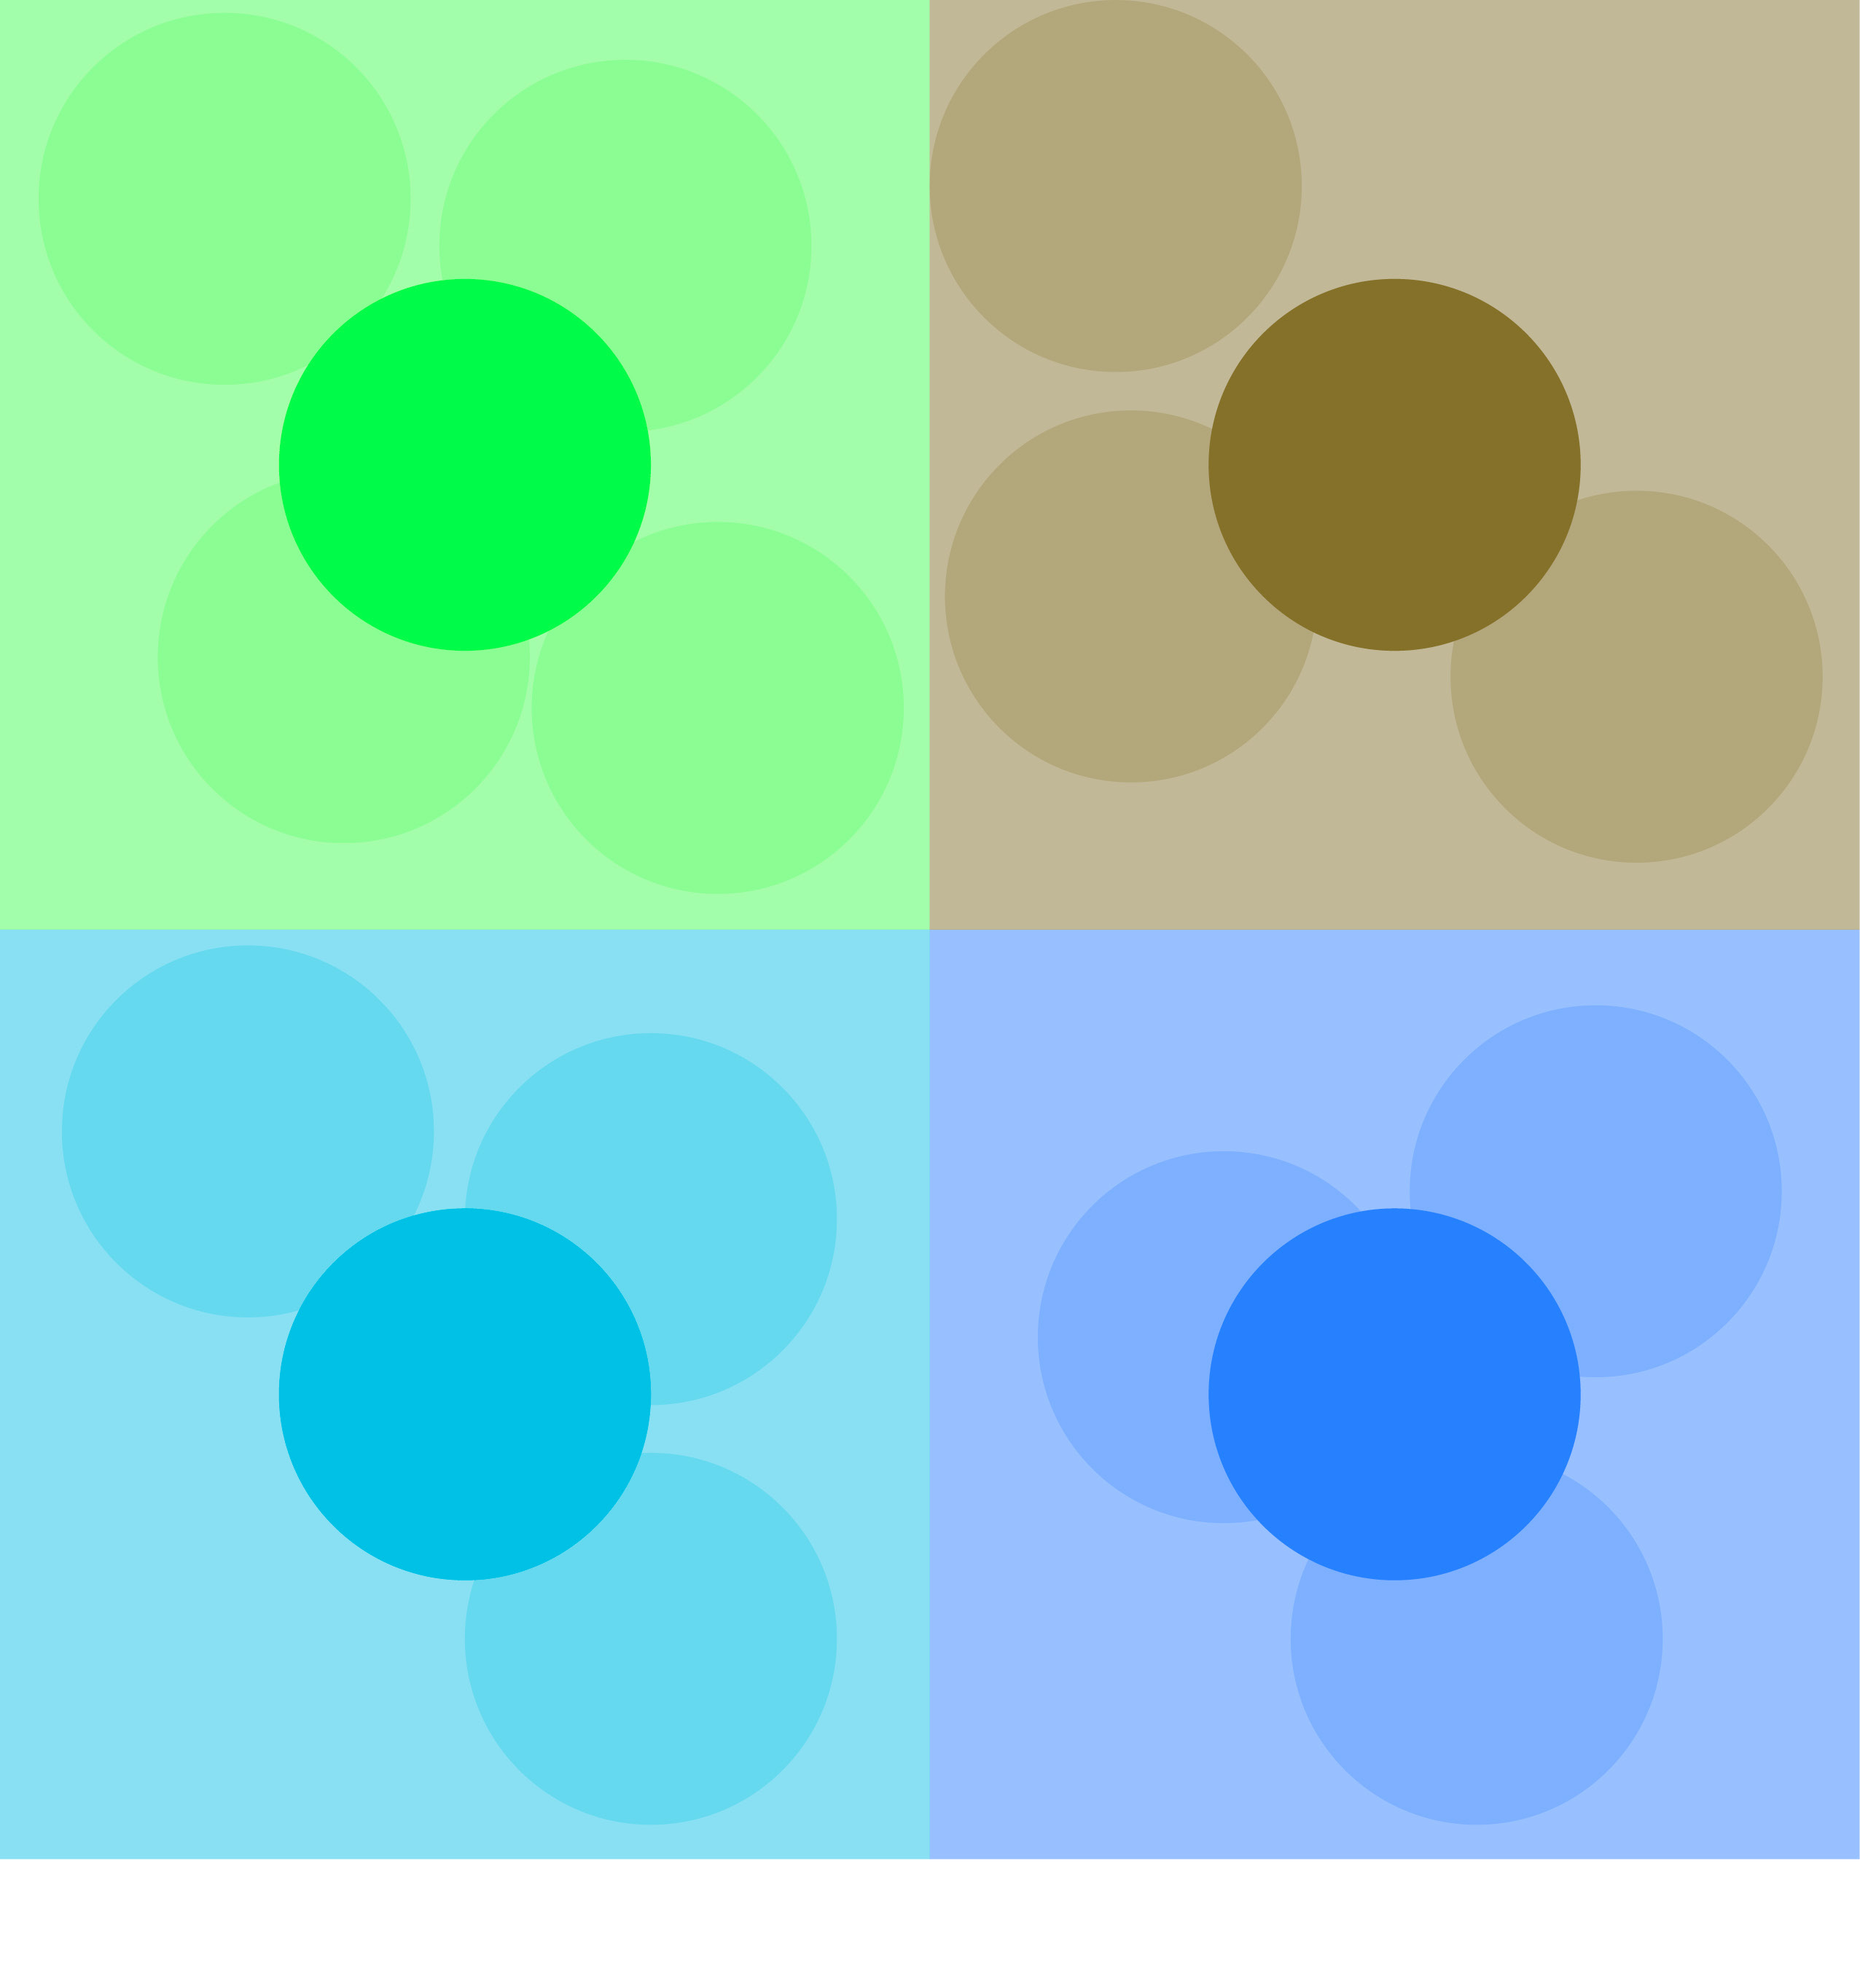
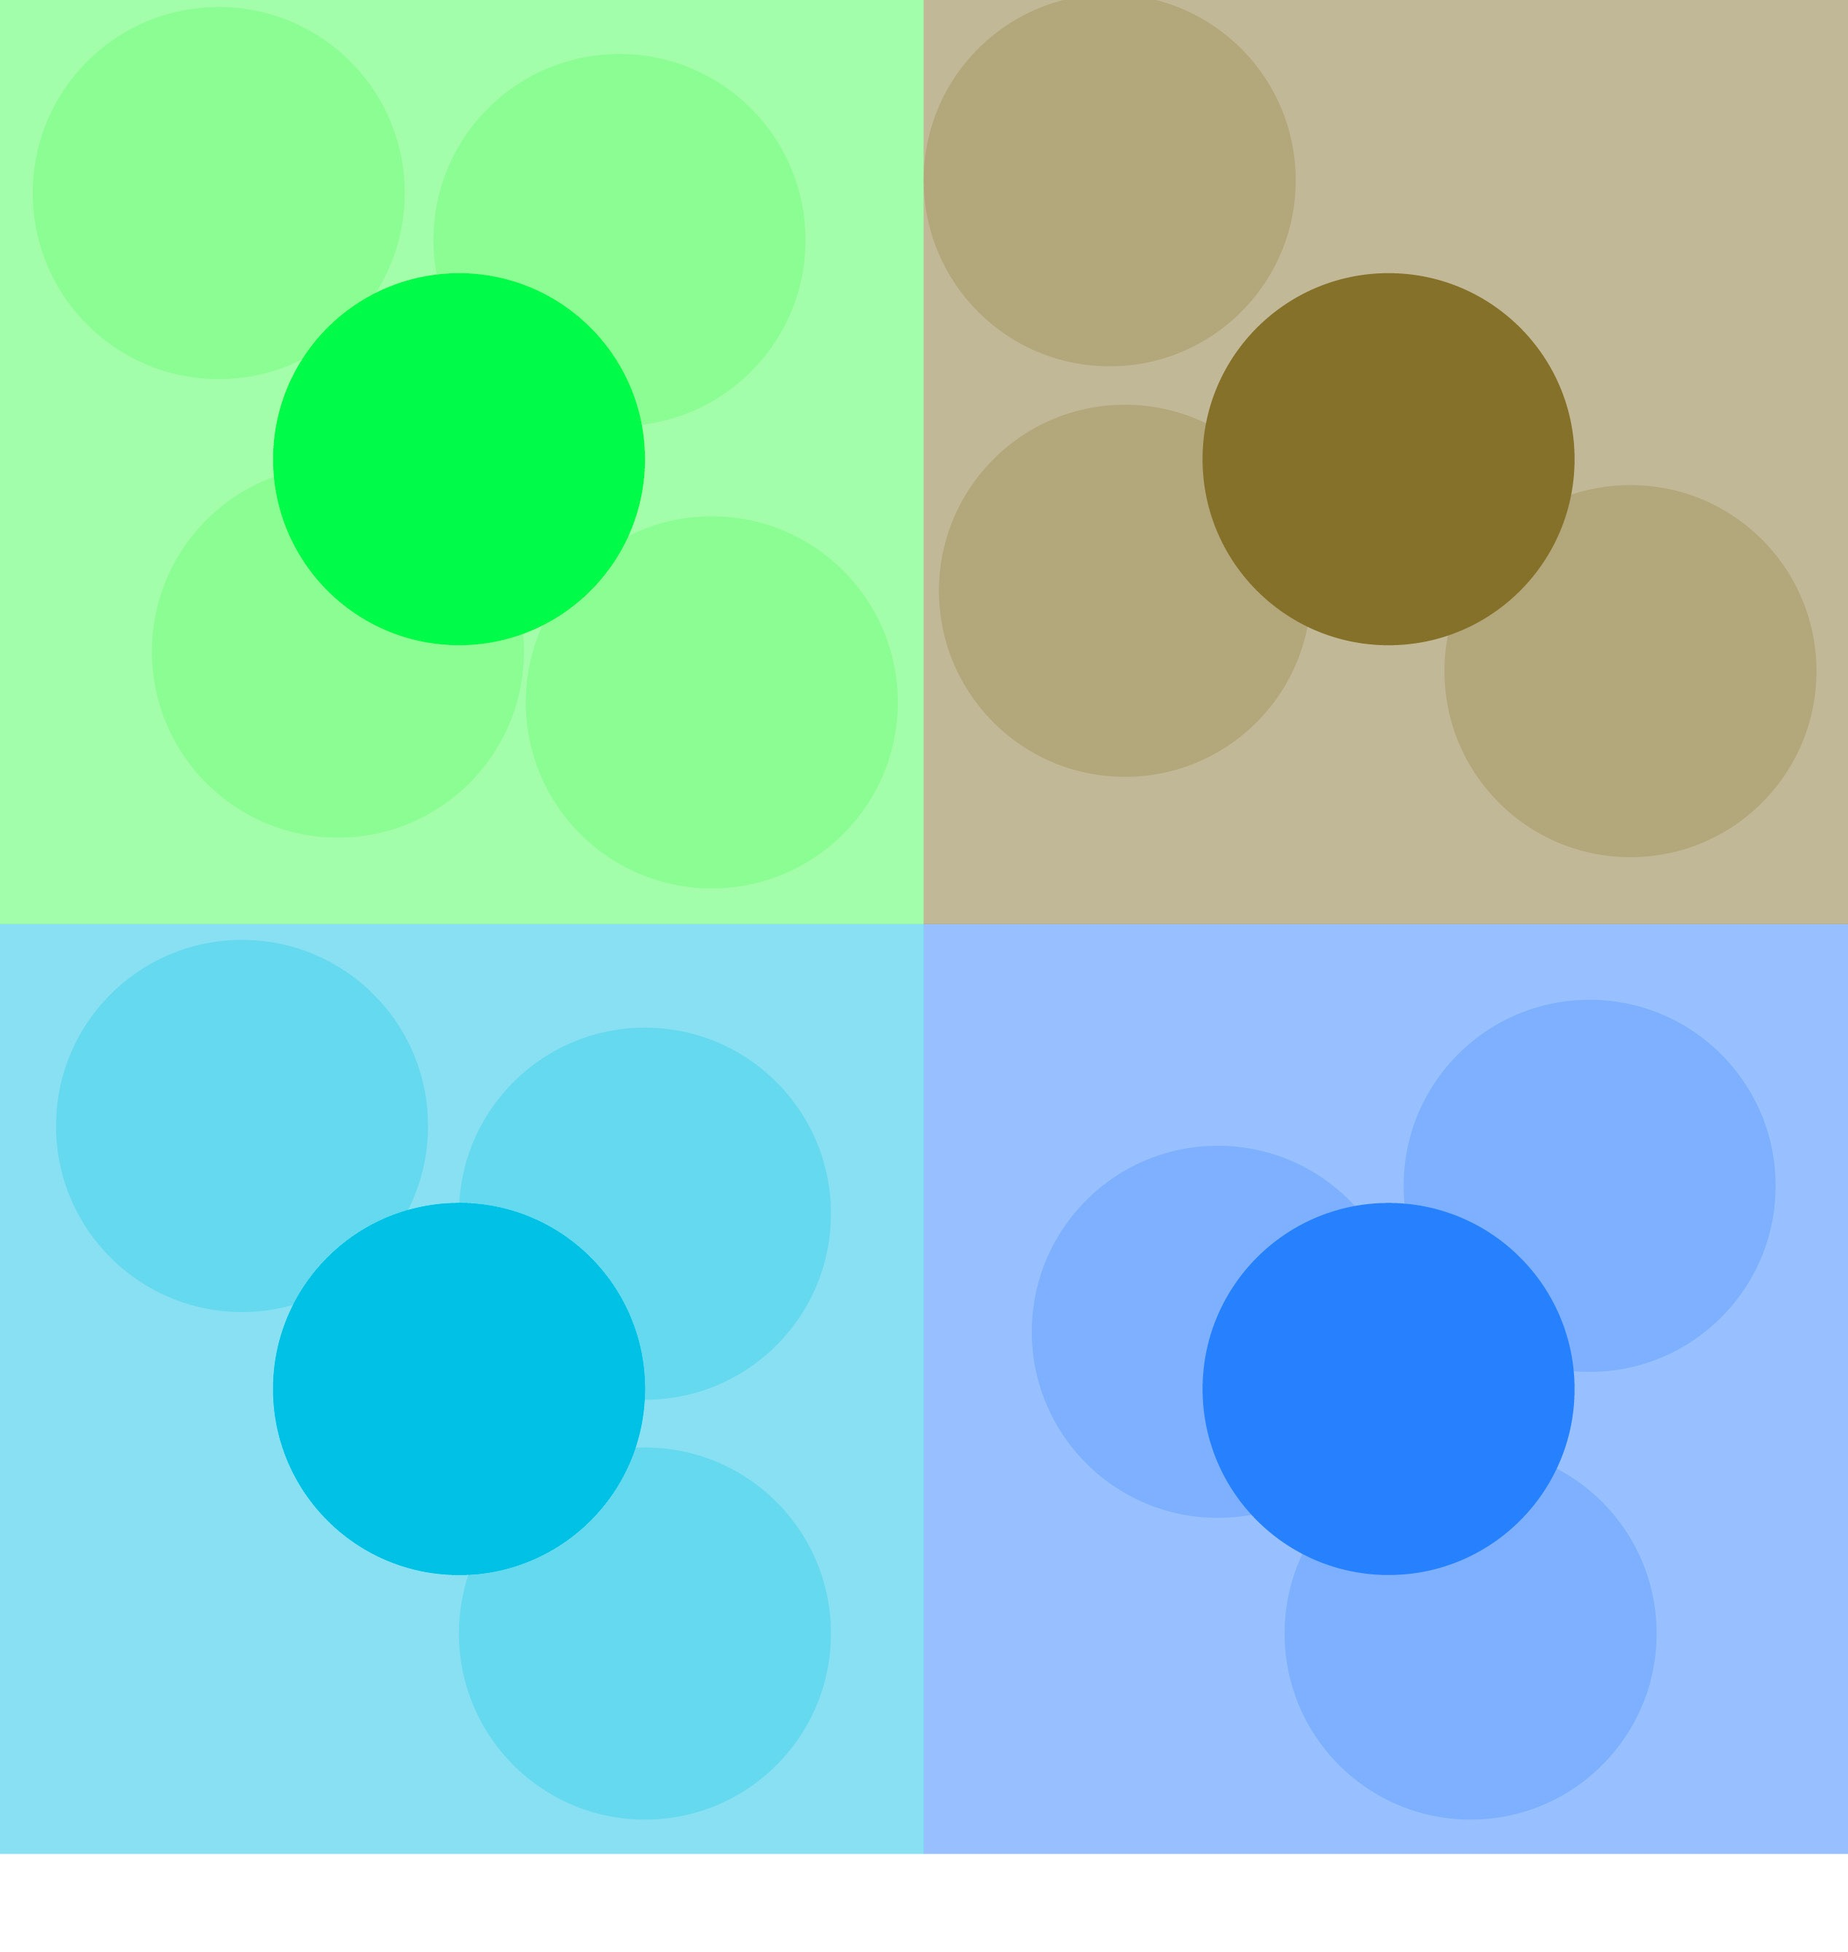
fix: crop bleed edge pixels from ch3 figures and set objectFit cover to eliminate white boundary line

diff --git a/next-app/app/(sub)/graduation-show/components/Chapter3Diagrams.tsx b/next-app/app/(sub)/graduation-show/components/Chapter3Diagrams.tsx
@@ -123,7 +123,10 @@ export const Chapter3ImageLoop: React.FC<ImageLoopProps> = ({
               left: 0,
               width: '100%',
               height: '100%',
-              objectFit: 'contain',
+              objectFit: 'cover',
+              border: 'none',
+              outline: 'none',
+              display: 'block',
               opacity: step === idx ? 1 : 0,
               transition: `opacity 0.6s ${strongEase}`
             }}
